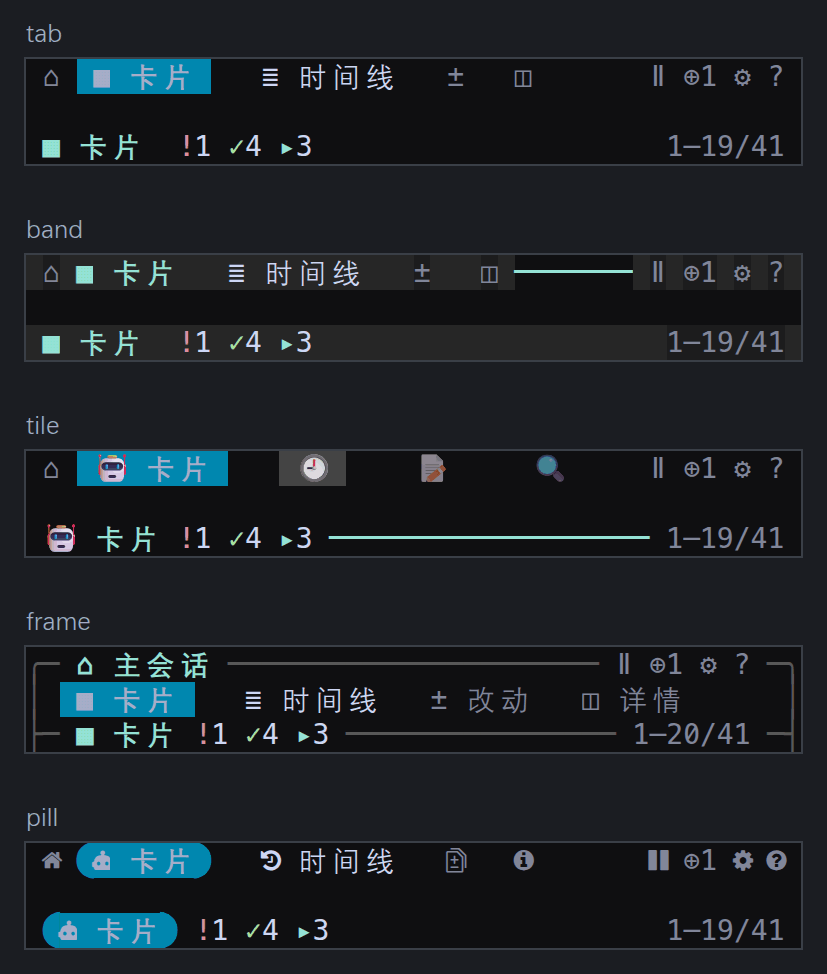
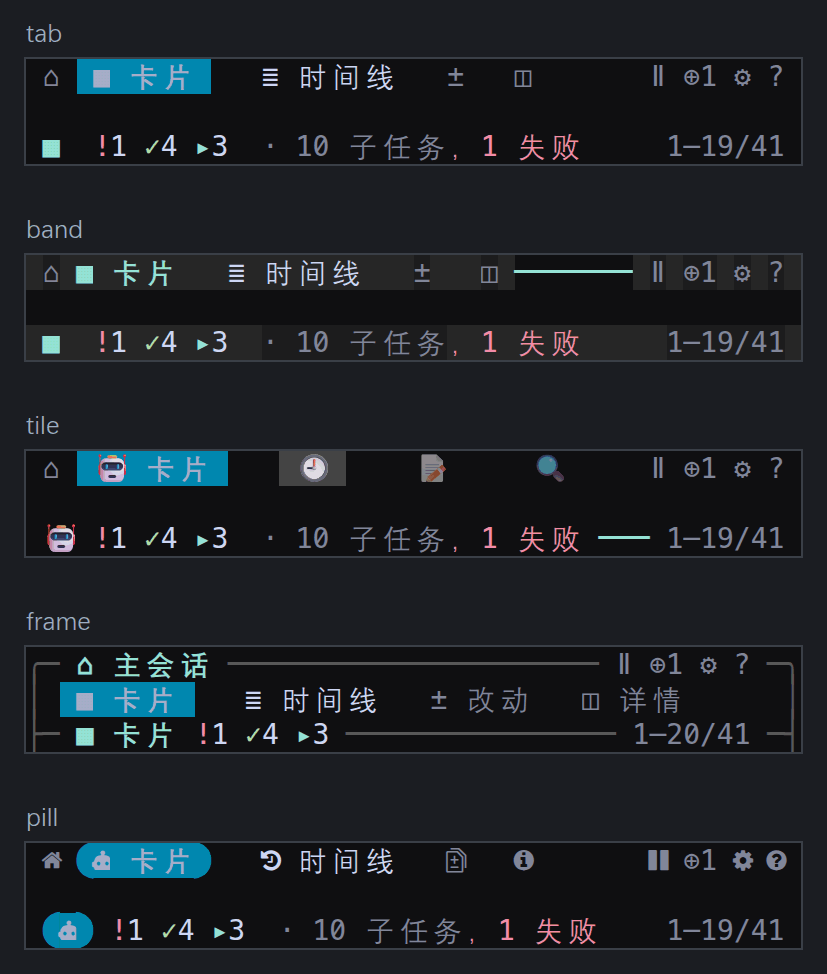
Redraw the README figures from the demo as every view now counts it, the alert as one phrase for a failed agent and subtask, the bar's agents and the Chinese title keeping its subtasks, and say so under the bar's figure

diff --git a/README.md b/README.md
@@ -22,7 +22,7 @@ Real-time statusline HUD for [OpenAI Codex CLI](https://github.com/openai/codex)
 
 > Inspired by [claude-hud](https://github.com/jarrodwatts/claude-hud) for Claude Code.
 
-![Codex HUD — the status bar while Codex works, and with a failed agent at its front](./docs/fig/bar.png)
+![Codex HUD — the status bar while Codex works, and with a failed agent and subtask at its front](./docs/fig/bar.png)
 
 ## Why Codex HUD?
 

diff --git a/README.zh.md b/README.zh.md
@@ -20,7 +20,7 @@
 
 > 灵感来源于 Claude Code 的 [claude-hud](https://github.com/jarrodwatts/claude-hud)。
 
-![Codex HUD — 状态栏：Codex 工作中，以及有 agent 失败时排在最前的告警](./docs/fig/bar.png)
+![Codex HUD — 状态栏：Codex 工作中，以及有 agent 和子任务失败时排在最前的告警](./docs/fig/bar.png)
 
 ## 为什么需要 Codex HUD？
 
